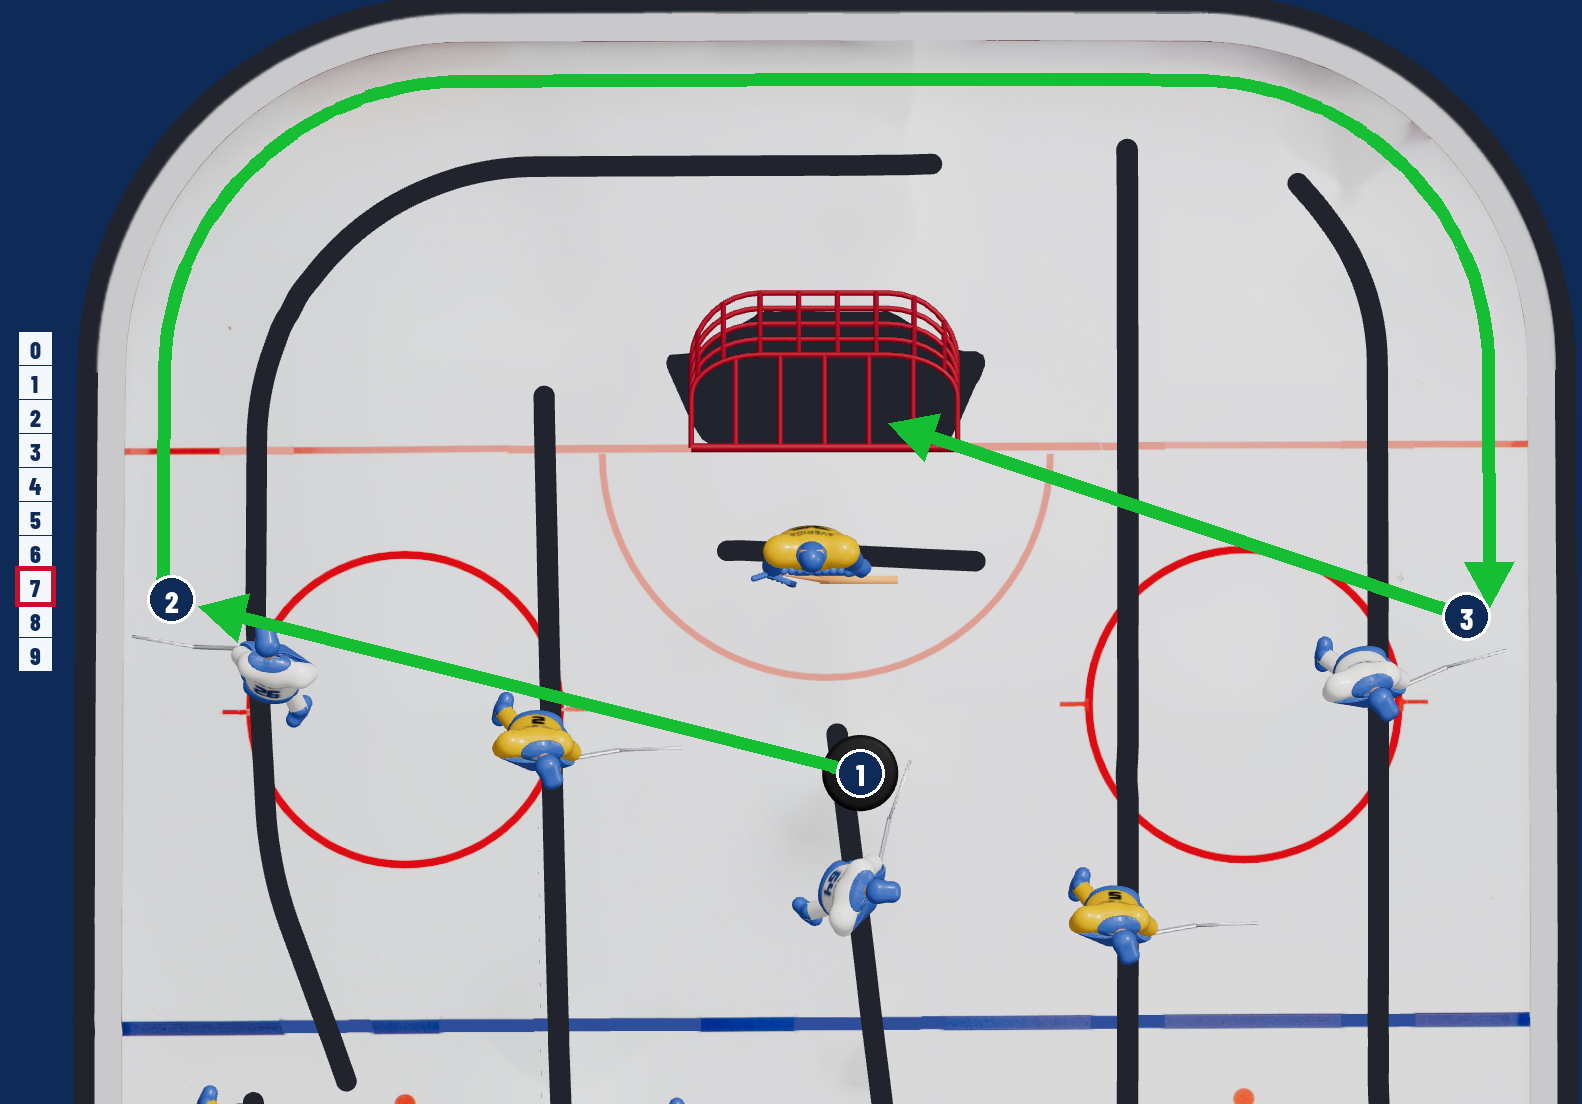
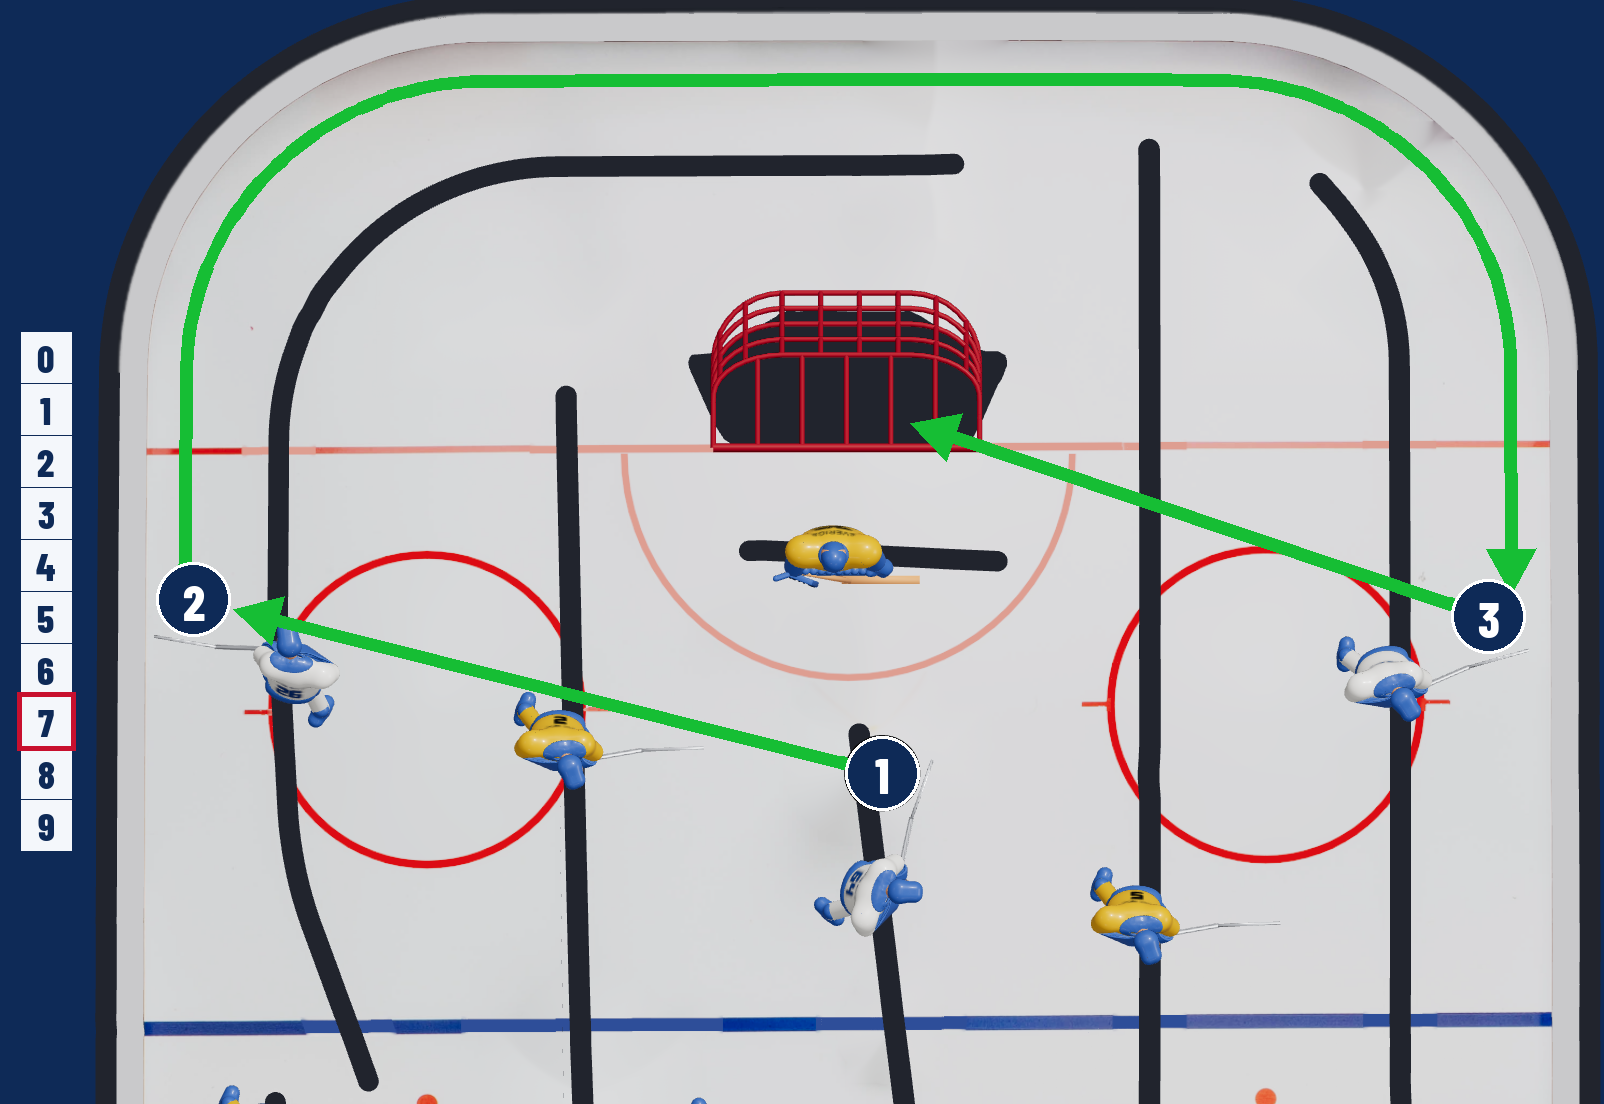
Move pictures: larger contact numbers and level scale (user)
Claude-Session: https://claude.ai/code/session_01BNTiwfvDFK1dJGset6TA2u

diff --git a/scripts/move-pictures/build.py b/scripts/move-pictures/build.py
@@ -32,7 +32,7 @@ GX, GY = HW["goal"]["placement_mm"]["E"]
 BOARD = np.array(G["board"]["inner_boundary"]["world"]["points_mm"], float)
 PX_PER_MM = 3.0
 VIEWS = {"half": {"x": (68.0, 436.0), "y": (-252.0, 252.0)}, "full": {"x": (-436.0, 436.0), "y": (-252.0, 252.0)}}
-MARGIN_L = 70  # px, left strip for the level scale (as on puck.no)
+MARGIN_L = 92  # px, left strip for the level scale (as on puck.no)
 TURN_COST = 0.15  # mm per degree the blade is turned away from the push
 BACKHAND_COST = 2.0  # mm
 
@@ -251,10 +251,10 @@ def badge(d, p, n, r):
 
 def level_scale(d, h, level):
     """The puck.no difficulty scale 0-9 on the left edge, the move's level boxed in red."""
-    cell = 34
+    cell = 52
     x0 = (MARGIN_L - cell) // 2
-    y0 = int(h * 0.30)
-    f = ImageFont.truetype(FONT, 24)
+    y0 = int(h * 0.30) if h < 1500 else int(h * 0.40)
+    f = ImageFont.truetype(FONT, 38)
     for k in range(10):
         y = y0 + k * cell
         d.rectangle([x0, y, x0 + cell, y + cell], fill=ICE, outline=NAVY, width=1)
@@ -269,16 +269,23 @@ def draw(spec, geo):
     im = Image.new("RGB", (W, H), NAVY)
     im.paste(base, (MARGIN_L, 0))
     d = ImageDraw.Draw(im)
-    r = 21
+    r = 34
     pts = {k: to_px(geo, p) for k, p in geo["points_mm"].items()}
+    marks = {k: np.array(p) for k, p in pts.items() if k not in ("goal", "board")}  # where each numbered circle goes
     for a in geo["arrows_mm"]:
         P = [to_px(geo, p) for p in a]
-        start_is_badge = any(np.allclose(P[0], q) for k, q in pts.items() if k not in ("goal", "board"))
-        end_is_badge = any(np.allclose(P[-1], q) for k, q in pts.items() if k not in ("goal", "board"))
-        arrow(d, P, 13, GREEN, 46, r + 6 if start_is_badge else 0, r + 7 if end_is_badge else 0)
-    for k, p in pts.items():
-        if k not in ("goal", "board"):
-            badge(d, p, k, r)
+        ks = next((k for k, q in pts.items() if k in marks and np.allclose(P[0], q)), None)
+        ke = next((k for k, q in pts.items() if k in marks and np.allclose(P[-1], q)), None)
+        length = sum(math.dist(u, v) for u, v in zip(P, P[1:]))
+        cut_s, cut_e = (r + 6 if ks else 0), (r + 7 if ke else 0)
+        if ke and length < 5 * r:
+            # too short to show between two circles (Näcka's heel pass): the end circle steps aside, the arrow keeps its tip
+            u = (np.array(P[-1]) - np.array(P[-2])) / max(math.dist(P[-1], P[-2]), 1e-9)
+            marks[ke] = np.array(P[-1]) + np.array([-u[1], u[0]]) * (r + 12)
+            cut_s, cut_e = 0, 4
+        arrow(d, P, 13, GREEN, 46, cut_s, cut_e)
+    for k, p in marks.items():
+        badge(d, p, k, r)
     level_scale(d, H, spec["level"])
     VAL.mkdir(parents=True, exist_ok=True)
     out = VAL / f"{spec['id']}.png"

diff --git a/docs/move-pictures.md b/docs/move-pictures.md
@@ -29,7 +29,7 @@ without the explanatory text the analysis videos carry. Pilot: five visibly diff
 3. `render.ts`: the rink straight from above with the pose-preview composition (same pose code as every video; the
    composition now takes `widthPx`, `heightPx`, `background`). The puck is drawn at contact 1.
 4. `build.py --draw`: rotated so the attacking goal is up (no mirroring: the attackers' left is on the left, as on
-   puck.no), green arrows, navy numbered circles at the contacts, the 0-9 level scale with the level boxed in NBHF
+   puck.no), green arrows, large navy numbered circles at the contacts (a circle steps aside when the arrow is too short to show, as in Näcka), the 0-9 level scale with the level boxed in NBHF
    red (docs/theme.md colours). No other text.
 
 Like puck.no, a figure is drawn once (at its first touch); a later touch by the same figure (Agdur 3, Veggdyr 2)
